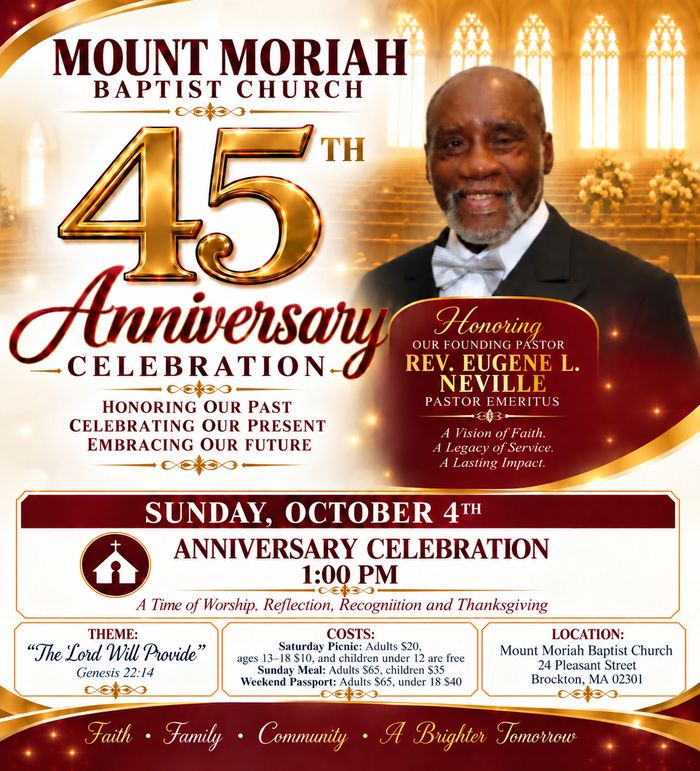
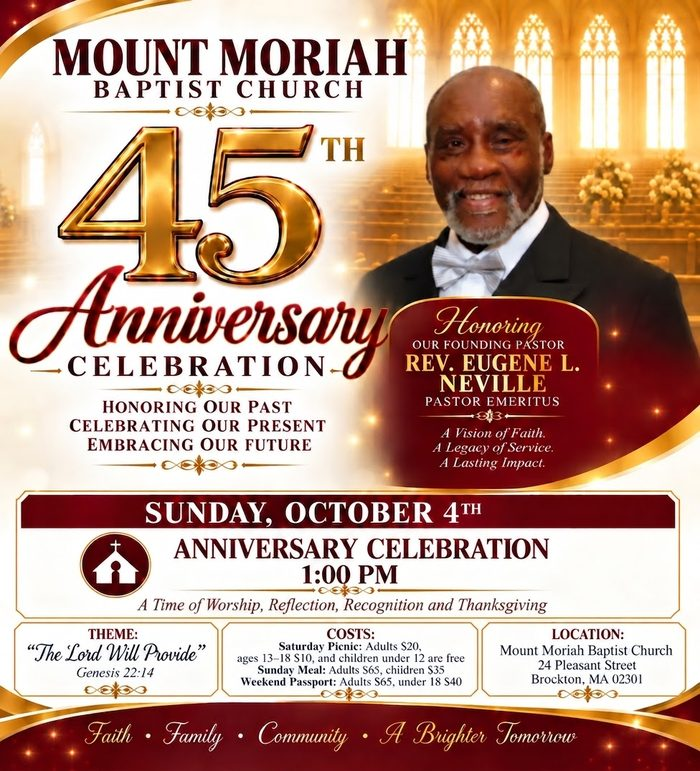
Replace the 1:00 PM flyer with the corrected version
"Recogniition" is now spelled "Recognition". Verified the change by
diffing against the previous file rather than taking the filename's word
for it — an earlier upload was byte-identical to the one already live.

The corrected export is 976x1075, down from 1195x1316, so the full-size
lightbox view is a little lower resolution. Still fine on screen; worth
asking for a larger export before printing it big.

The thumbnail lands at 700x771, matching the dimensions already declared
in the markup, so no layout change was needed.

The date on the flyer still reads "SUNDAY, OCTOBER 4TH" with no year;
action item 25 stays open.

Claude-Session: https://claude.ai/code/session_01Crc44jfuuWPXAmCbc9WxeC

diff --git a/docs/ACTION-ITEMS.md b/docs/ACTION-ITEMS.md
@@ -53,7 +53,7 @@ of these actually block that. Those are marked **BLOCKER**.
 | 22 | Confirm **Friday night** start time. | [unassigned] | Sunday morning is now confirmed at 10:00 AM. Friday is still the only unknown time. |
 | ~~23~~ | ~~Walker Park entrance~~ **DONE** — 50 May Ave is the address, **entrance is on Oak Street** (behind the Raymond School). Both now shown on the site. | — | |
 | ~~24~~ | ~~Name~~ **DONE** — "Family Fun Day", described as a picnic-style family reunion. | — | |
-| 25 | Add **2026** to both Sunday flyers before any large print run. | Shayna | Agreed to add it, but the latest versions received still read "SUNDAY, OCTOBER 4TH" with no year. Not yet done. |
+| 25 | Add **2026** to both Sunday flyers before any large print run. | Shayna | **Still outstanding.** The corrected flyer fixed the "Recognition" typo but the date still reads "SUNDAY, OCTOBER 4TH" with no year. |
 | 26 | Plan the Sunday close-out crew (after the 1:00 PM celebration). | [unassigned] | Explicitly deferred in the meeting. |
 | 26a | **Resolve the Sunday setup window.** With the celebration at 1:00 PM there may be little or no gap after morning worship to turn the auditorium around. Move setup to Saturday evening / early Sunday, or end morning worship earlier. | Anniversary committee | Consequence of the time change — never discussed, because the meeting predates it. See MEETING-NOTES §12. |
 | 26b | Confirm the meal plan suits a **1:00 PM sitting** (lunch, not dinner). | [unassigned] | Quantities and menu differ from a 4:00 PM event. |
@@ -69,7 +69,7 @@ of these actually block that. Those are marked **BLOCKER**.
 |---|---|---|---|
 | 32 | **Confirm the Sunday-only price is intentional.** Sunday Meal adults **$65** is the *same* as the Weekend Passport adults **$65**, which also includes the $20 Saturday picnic. No adult would rationally buy Sunday-only. | Anniversary committee | Built as specified because it is on the approved flyer. If unintended, either drop Sunday-only to ~$45–50 or raise the passport to ~$80. The children's tiers are fine ($35 + $10 = $45 vs. $40 passport). |
 | 33 | **Define the age cutoff for the Sunday "children" $35 tier.** The flyer says only "Adults $65, children $35". | Anniversary committee | The site currently charges $35 for everyone under 18 on Sunday. Change `pricing.sunday` in `config.js` if a different cutoff is wanted. |
-| 34 | Typo on the 1:00 PM flyer: "Recogniition" should be "Recognition". | Shayna | Worth fixing in the same pass as adding the year. |
+| ~~34~~ | ~~Typo "Recogniition"~~ **DONE** — corrected flyer received and live. | — | Note the corrected file is 976px wide vs 1195px before, so the full-size view is slightly lower resolution. Fine for screen; ask the designer for a larger export if it will be printed big. |
 | 35 | **Turn off Vercel Authentication** so the public can open the site. | Web team | Vercel dashboard → project → Settings → Deployment Protection. Until this is off, the QR code leads to a login wall. Verify in a private browsing window. |
 
 ---
